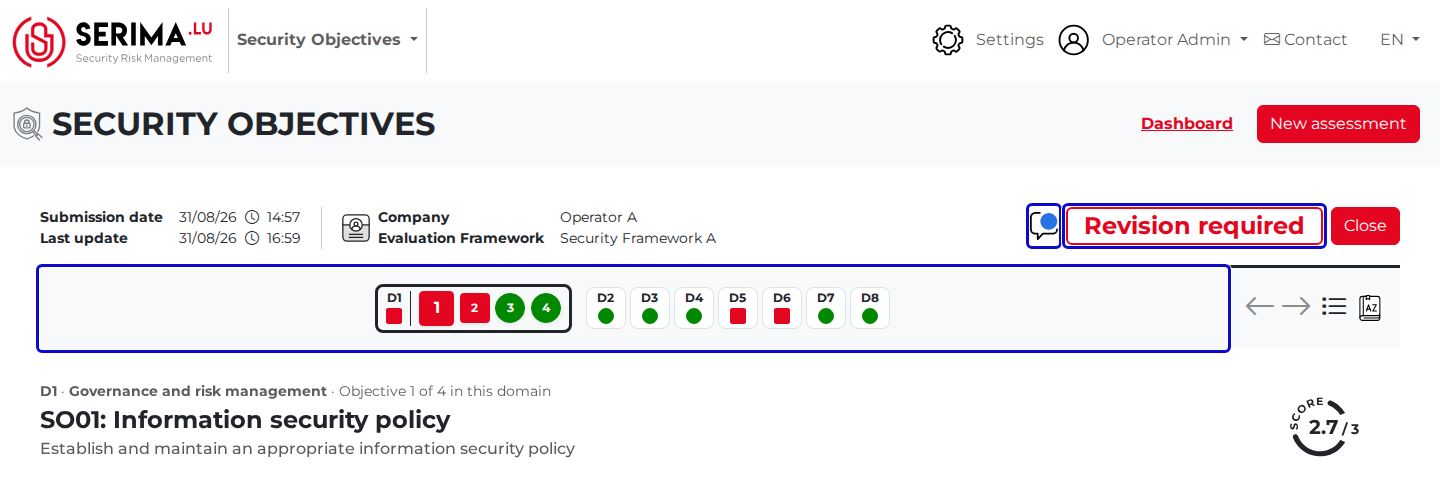
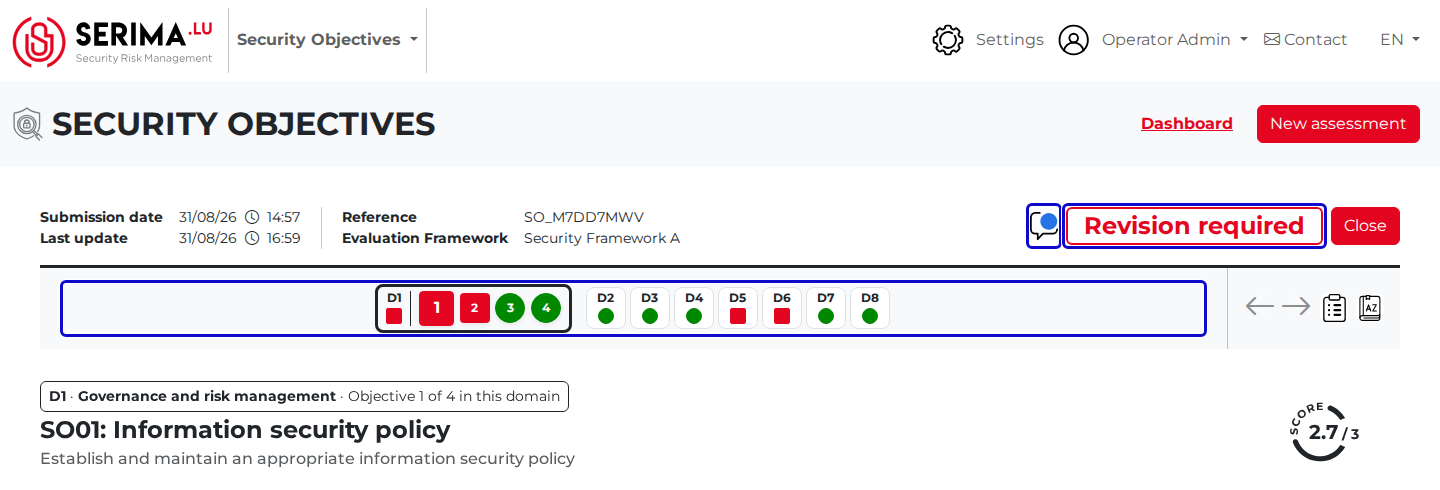
[Docs][NI][SO] Reference in the declaration header, comment #942

diff --git a/docs/security-objectives/review-a-declaration.rst b/docs/security-objectives/review-a-declaration.rst
@@ -76,7 +76,8 @@ Open a declaration
 ~~~~~~~~~~~~~~~~~~
 
 Click the **Review** icon (pencil) of the declaration. It opens on the declaration screen described in
-:ref:`declaration-screen`, where the operator's answers are read-only, on the first objective you have not reviewed yet. The profile icon beside **Company** gives you
+:ref:`declaration-screen`, where the operator's answers are read-only, on the first objective you have not reviewed yet. Its header also shows the **Company** the declaration is for, between
+its **Reference** and its **Evaluation Framework**, and the profile icon beside them gives you
 the name, email and phone number of the person who created the declaration. The parts specific to your review are numbered below.
 
 .. figure:: /_static/images/security-objectives/review-a-declaration-03.png

diff --git a/docs/security-objectives/fill-in-a-declaration.rst b/docs/security-objectives/fill-in-a-declaration.rst
@@ -50,9 +50,8 @@ Its parts are numbered in the screenshot below and described one by one.
 
 1. **Submission date** and **Last update**: The submission date stays empty until the declaration is submitted.
 
-2. **Company** and **Evaluation Framework**: The operator the declaration is for, and the framework it answers.
-   The profile icon beside them opens the **Profile** pop-up, with the name, email and phone number of the person
-   who created the declaration.
+2. **Reference** and **Evaluation Framework**: The reference of the declaration, shared by all its versions,
+   and the framework it answers.
 
 3. **Review comment**: The speech bubble opens the regulator's comment on the whole declaration.
    It is greyed out until the regulator has sent the result of the review with a comment.

diff --git a/docs/incident-notification/review-a-report.rst b/docs/incident-notification/review-a-report.rst
@@ -31,6 +31,9 @@ Review the report
       :alt: Preliminary Incident Report link outlined in the Report column
       :target: ../_static/images/incident-notification/workflow-regulator-03.png
 
+   The header above the steps gives the **Reference**, **Company** and **Regulation** of the incident;
+   the **Contacts** icon beside them opens the same contact details as in the incident list.
+
 2. Go through the forms of the report with **Next**. They show the operator's answers, which you cannot change.
    When the operator has submitted several versions, the steps whose answers changed since the previous version are marked in orange,
    and each changed answer is outlined, with a **View previous version** button.

diff --git a/docs/incident-notification/fill-in-a-report.rst b/docs/incident-notification/fill-in-a-report.rst
@@ -71,6 +71,8 @@ Fill in the report
 
 The report opens as a series of forms, shown as steps at the top of the screen.
 Click **Next** to move to the following form, **Previous** or the name of an earlier step to go back.
+Above the steps, a header recalls the creation and last update dates of the incident, its **Reference**,
+its **Regulation** and its sectors.
 
 .. important::
 
